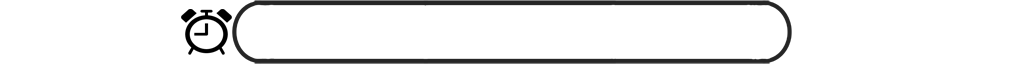
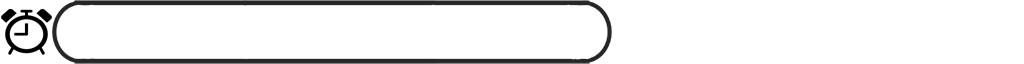
ゲージが減るところまでは作ったので、あとは画像を収集する

Changed region(s): [[0.0, 0.0, 0.25, 1.0], [0.5625, 0.0, 0.7812, 1.0], [0.5938, 0.375, 0.625, 0.625]]

diff --git a/TitleScene.cpp b/TitleScene.cpp
@@ -52,8 +52,10 @@ void TitleScene::Update()
 
 	if (Input::IsKeyDown(DIK_SPACE))
 	{
+		if(isStart=false)
+			FindObject("TitleHeader")->KillMe();
 		isStart = true;
-		FindObject("TitleHeader")->KillMe();
+		
 	}
 
 	if (isStart)
